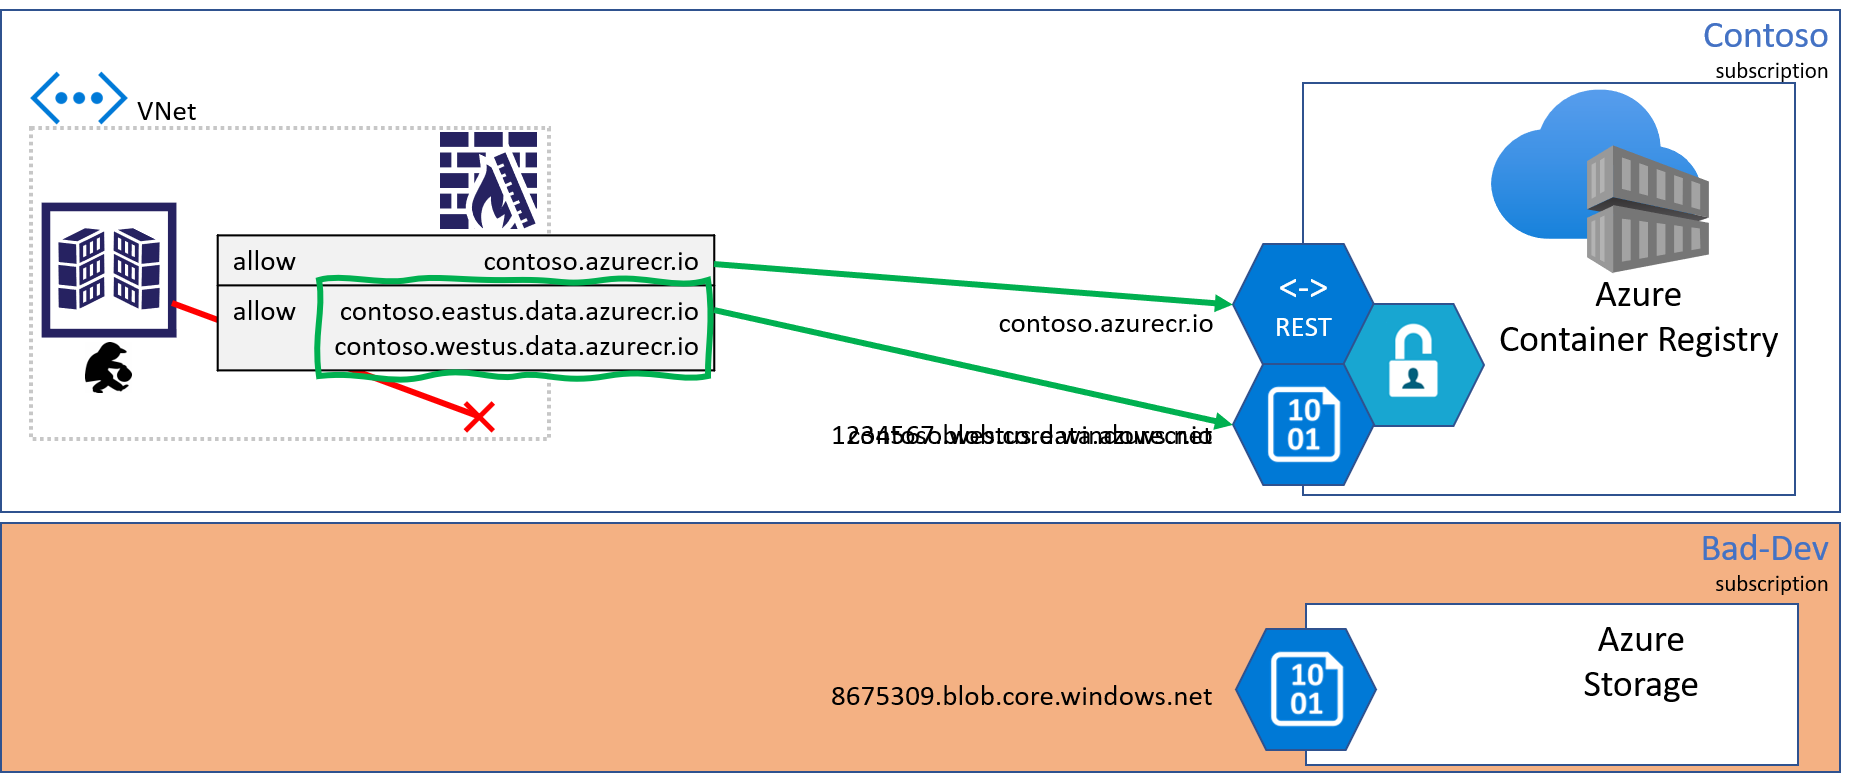
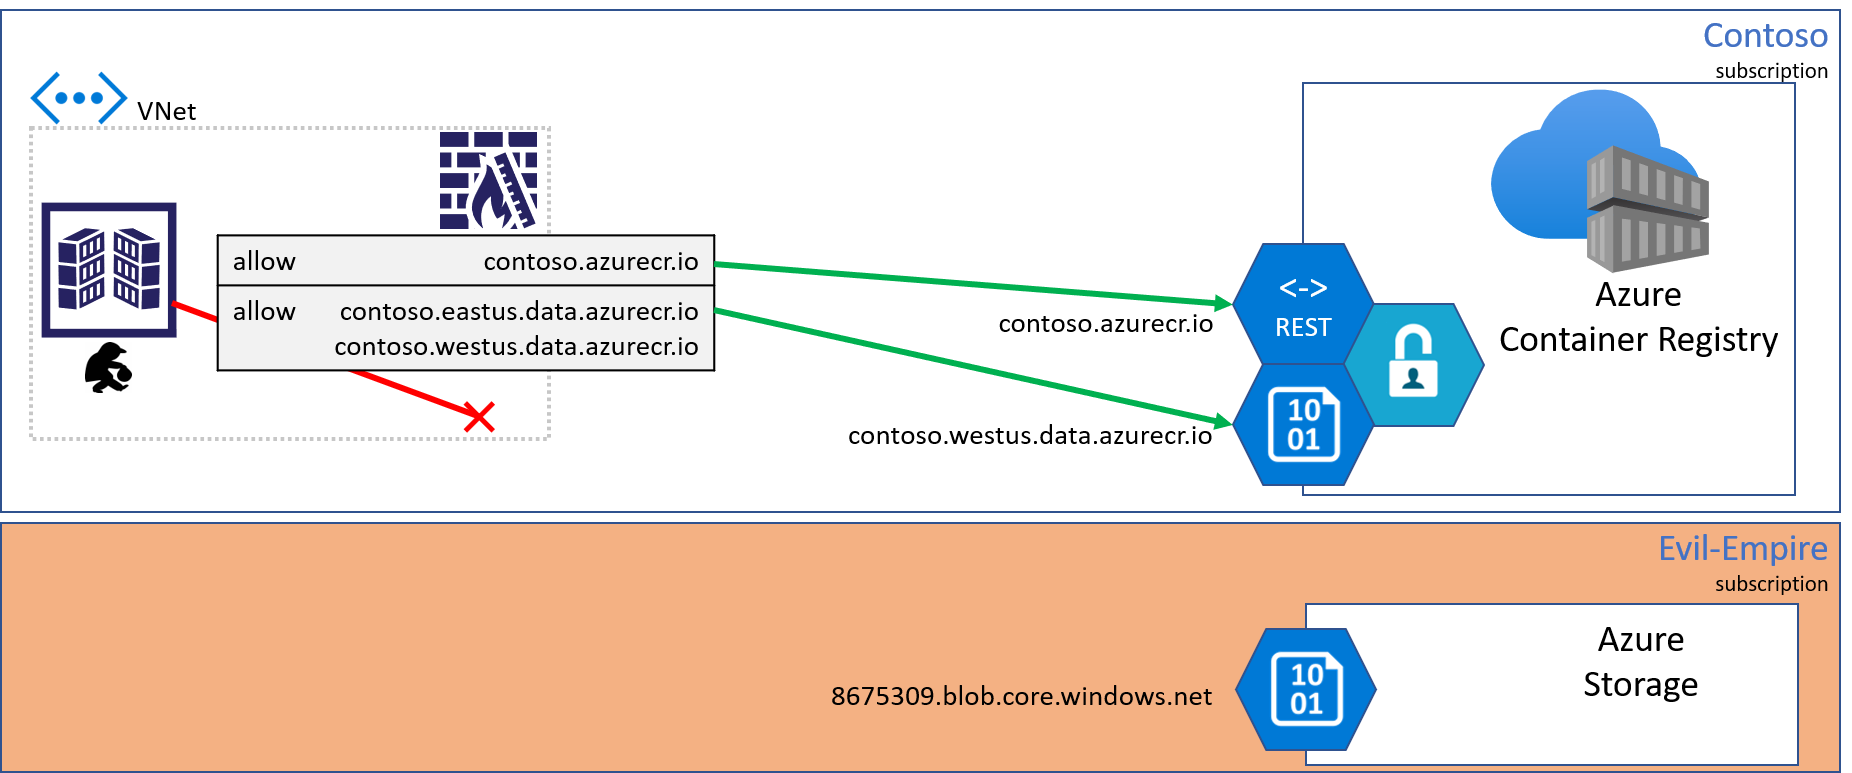
Incorporate feedback for bad-dev-->evil-empire

Changed region(s): [[0.1539, 0.3415, 0.4001, 0.4968], [0.8925, 0.6831, 0.9849, 0.7451], [0.4617, 0.5589, 0.6463, 0.5899]]

diff --git a/docs/dedicated-data-endpoints/dedicated-data-endpoints.md b/docs/dedicated-data-endpoints/dedicated-data-endpoints.md
@@ -30,7 +30,7 @@ When connecting to a registry from on-prem hosts, IoT devices, custom build agen
 
 <img src="./media/registry-client-rules-all-storage.png" width=500x>
 
-As customers locked down their client firewall configurations, they realized they must create a rule with a wildcard for all storage accounts, raising concerns for data-exfiltration. A bad actor could deploy code that would be capable of writing to another "bad-dev" storage account.
+As customers locked down their client firewall configurations, they realized they must create a rule with a wildcard for all storage accounts, raising concerns for data-exfiltration. A bad actor could deploy code that would be capable of writing to another "Evil-Empire" storage account.
 
 To mitigate data-exfiltration concerns, Azure Container Registry is making dedicated data-endpoints available.
 
